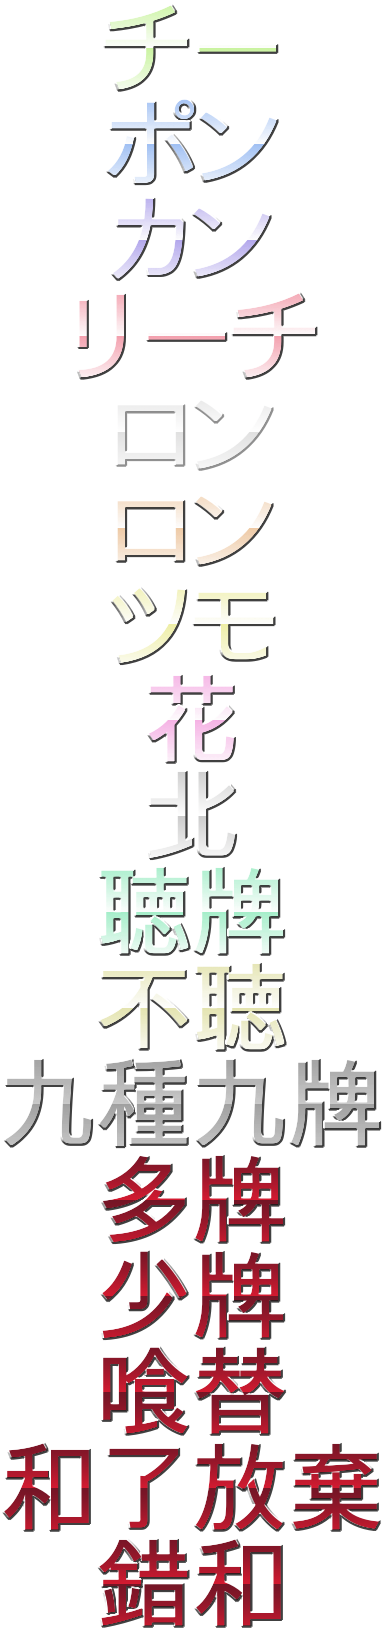
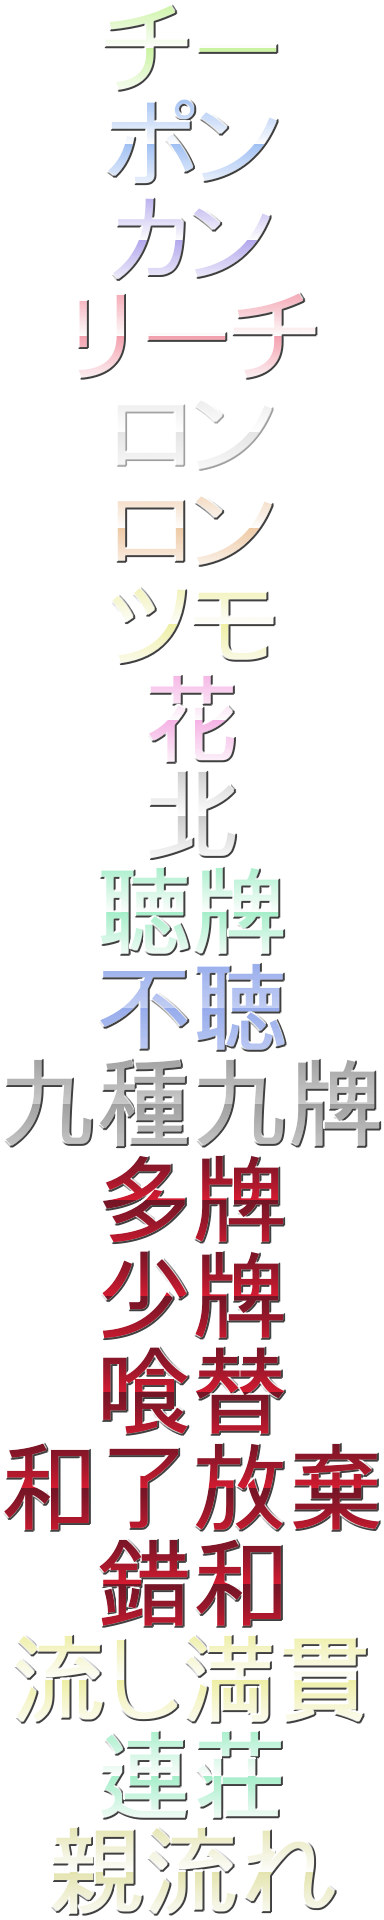
「流し満貫」「連荘」「親流れ」を表示できるよう画像データ修正

Changed region(s): [[0.0, 0.0, 1.0, 1.0], [0.0, 0.75, 0.25, 0.8125]]

diff --git a/graphic/scenes/table/call.cpp b/graphic/scenes/table/call.cpp
@@ -9,7 +9,7 @@ namespace mihajong_graphic {
 // -------------------------------------------------------------------------
 
 TableSubsceneCallProto::TableSubsceneCallProto(LPDIRECT3DDEVICE9 device) : TableSubscene(device) {
-	LoadTexture(device, &tCall, MAKEINTRESOURCE(IDB_PNG_CALL_TEXT), 384, 1632);
+	LoadTexture(device, &tCall, MAKEINTRESOURCE(IDB_PNG_CALL_TEXT), 384, 1920);
 }
 
 TableSubsceneCallProto::~TableSubsceneCallProto() {

diff --git a/graphic/calltext.h b/graphic/calltext.h
@@ -27,6 +27,9 @@ enum CallType {
 	Kuikae,
 	AgariHouki,
 	Chonbo,
+	NagashiMangan,
+	Renchan,
+	Oyanagare,
 };
 
 EXPORT CallType getCall(PLAYER_ID playerID);
